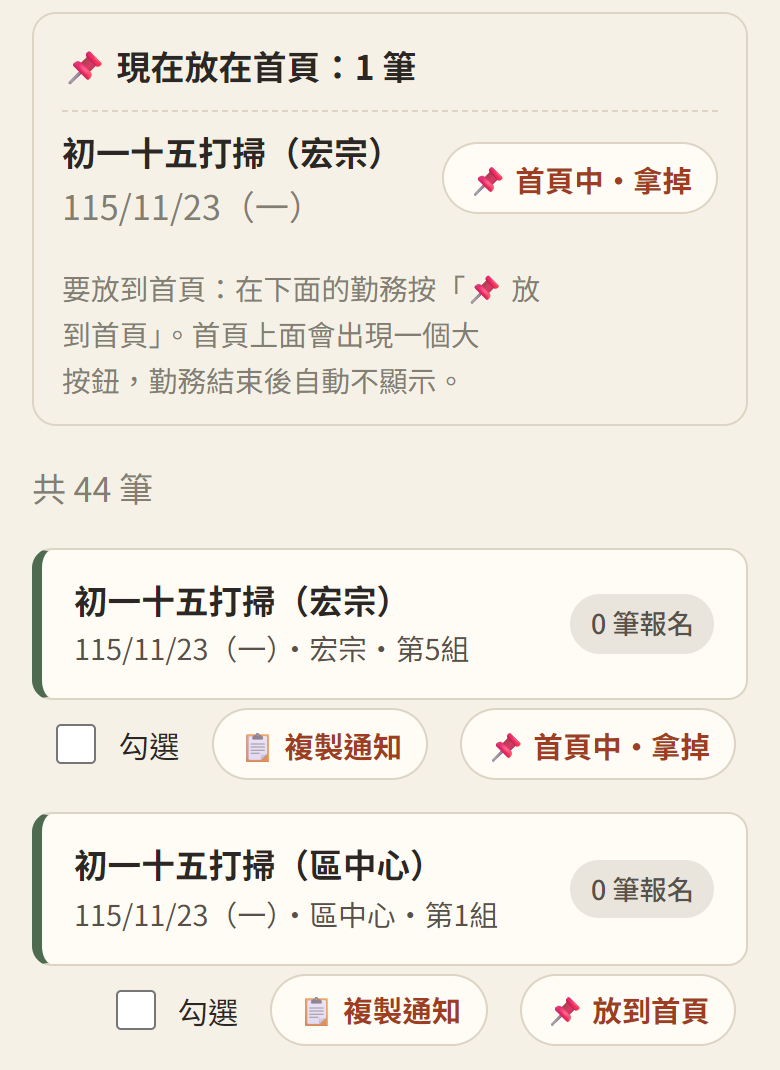
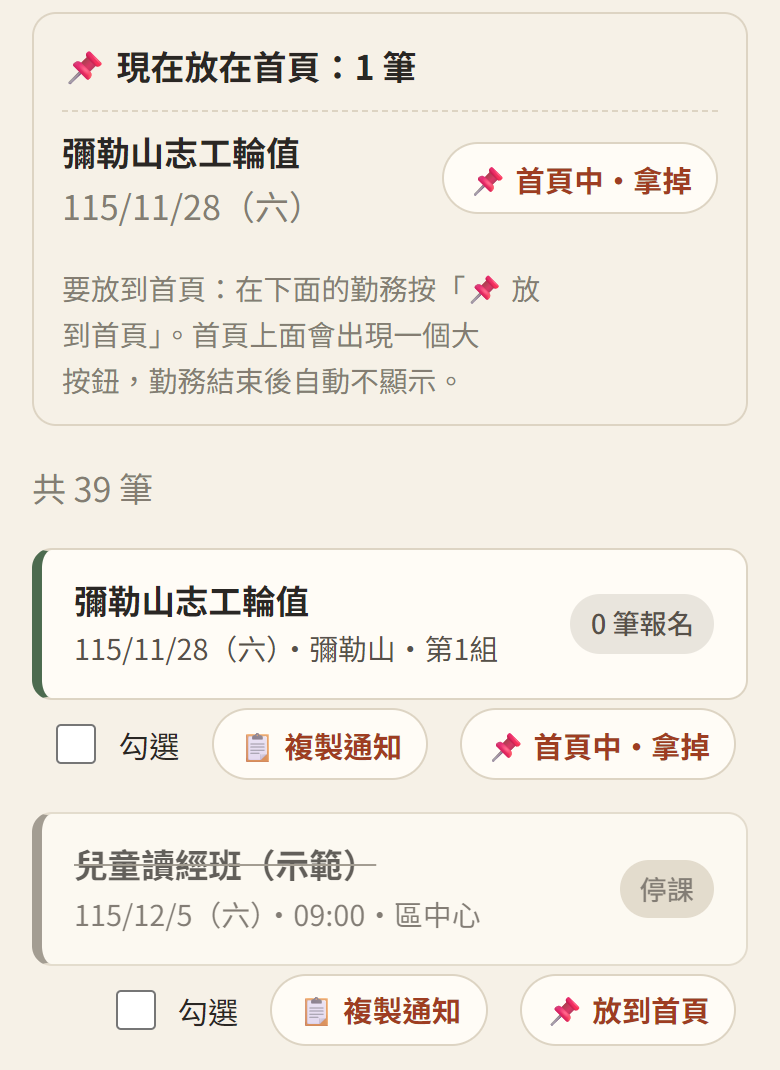
勤務管理多「依日期／依項目」：同一種的收成一組（幾筆、下一次、停課幾堂），組裡照日期排

diff --git a/index.html b/index.html
@@ -15,7 +15,7 @@
   if (location.hostname === 'bailixiao.github.io') location.replace('https://jiaoquan-cal.pages.dev/' + location.pathname.replace(/^\/duty-calendar\/?/, '').replace(/index\.html$/, '') + location.search + location.hash);
   </script>
   <meta name="viewport" content="width=device-width, initial-scale=1">
-  <meta name="app-version" content="20261127h"><!-- 整個網站的版本：部署時和 ?v= 一起換（js/update-check.js 用；正式網站的 ?v= 會換成各檔案的雜湊，見 tools/build-pages.js） -->
+  <meta name="app-version" content="20261127i"><!-- 整個網站的版本：部署時和 ?v= 一起換（js/update-check.js 用；正式網站的 ?v= 會換成各檔案的雜湊，見 tools/build-pages.js） -->
   <meta name="theme-color" content="#f6f1e7">
   <title>教全區行事曆</title>
   <!-- 加到手機主畫面時的圖示與名稱 -->
@@ -32,7 +32,7 @@
   <link rel="preconnect" href="https://fonts.googleapis.com">
   <link rel="preconnect" href="https://fonts.gstatic.com" crossorigin>
   <link href="https://fonts.googleapis.com/css2?family=Noto+Sans+TC:wght@400;500;700&family=Noto+Serif+TC:wght@600;700&display=swap" rel="stylesheet">
-  <link rel="stylesheet" href="css/app.css?v=20261127h">
+  <link rel="stylesheet" href="css/app.css?v=20261127i">
   <script>try { var t = localStorage.getItem('duty-calendar:text-size'); if (t === 'l' || t === 'xl') document.documentElement.classList.add('text-' + t); } catch (e) {}</script>
 </head>
 <body class="splash-on">
@@ -127,79 +127,79 @@
   <script src="https://cdn.jsdelivr.net/npm/fullcalendar@6.1.21/index.global.min.js"></script>
   <script src="https://cdn.jsdelivr.net/npm/@fullcalendar/core@6.1.21/locales/zh-tw.global.min.js"></script>
   <!-- 改了 js、css 後把 ?v= 的日期換新，手機才不會用到舊的檔案（GitHub Pages 會快取 10 分鐘） -->
-  <script src="js/site.js?v=20261127h"></script>
-  <script src="js/region.js?v=20261127h"></script>
-  <script src="js/config.js?v=20261127h"></script>
-  <script src="js/api.js?v=20261127h"></script>
-  <script src="js/format.js?v=20261127h"></script>
-  <script src="js/member-suggest.js?v=20261127h"></script>
-  <script src="js/newcomer.js?v=20261127h"></script>
-  <script src="js/album.js?v=20261127h"></script>
-  <script src="js/member-file.js?v=20261127h"></script>
-  <script src="js/family.js?v=20261127h"></script>
-  <script src="js/lunar-util.js?v=20261127h"></script>
-  <script src="js/date-list.js?v=20261127h"></script>
-  <script src="js/share.js?v=20261127h"></script>
-  <script src="js/addcal.js?v=20261127h"></script>
-  <script src="js/duty-cache.js?v=20261127h"></script>
-  <script src="js/thanks-board.js?v=20261127h"></script>
-  <script src="js/calendar.js?v=20261127h"></script>
-  <script src="js/confirm.js?v=20261127h"></script>
-  <script src="js/reschedule.js?v=20261127h"></script>
-  <script src="js/signup.js?v=20261127h"></script>
-  <script src="js/duty-images.js?v=20261127h"></script>
-  <script src="js/roster-grid.js?v=20261127h"></script>
-  <script src="js/grid-page.js?v=20261127h"></script>
-  <script src="js/grid-image.js?v=20261127h"></script>
-  <script src="js/thanks-image.js?v=20261127h"></script>
-  <script src="js/celebrate.js?v=20261127h"></script>
-  <script src="js/duty.js?v=20261127h"></script>
-  <script src="js/mine.js?v=20261127h"></script>
-  <script src="js/venue-hours.js?v=20261127h"></script>
-  <script src="js/venue.js?v=20261127h"></script>
-  <script src="js/push.js?v=20261127h"></script>
-  <script type="text/x-admin" src="js/attend-check.js?v=20261127h"></script>
-  <script type="text/x-admin" src="js/member-dups.js?v=20261127h"></script>
-  <script type="text/x-admin" src="js/admin.js?v=20261127h"></script>
-  <script type="text/x-admin" src="js/admin-pages.js?v=20261127h"></script>
-  <script type="text/x-admin" src="js/draft-editor.js?v=20261127h"></script>
-  <script type="text/x-admin" src="js/group-fair.js?v=20261127h"></script>
-  <script type="text/x-admin" src="js/admin-duties.js?v=20261127h"></script>
-  <script type="text/x-admin" src="js/admin-accounts.js?v=20261127h"></script>
-  <script type="text/x-admin" src="js/admin-site.js?v=20261127h"></script>
-  <script src="js/region-setup.js?v=20261127h"></script>
-  <script type="text/x-admin" src="js/import-parse.js?v=20261127h"></script>
-  <script type="text/x-admin" src="js/admin-import.js?v=20261127h"></script>
-  <script type="text/x-admin" src="js/old-parse.js?v=20261127h"></script>
-  <script type="text/x-admin" src="js/region-lines.js?v=20261127h"></script>
-  <script type="text/x-admin" src="js/old-import.js?v=20261127h"></script>
-  <script type="text/x-admin" src="js/admin-people.js?v=20261127h"></script>
-  <script type="text/x-admin" src="js/admin-hq.js?v=20261127h"></script>
-  <script type="text/x-admin" src="js/stats-calc.js?v=20261127h"></script>
-  <script type="text/x-admin" src="js/edu-stats.js?v=20261127h"></script>
-  <script type="text/x-admin" src="js/edu-care.js?v=20261127h"></script>
-  <script type="text/x-admin" src="js/admin-goals.js?v=20261127h"></script>
-  <script type="text/x-admin" src="js/admin-venue.js?v=20261127h"></script>
-  <script type="text/x-admin" src="js/admin-push.js?v=20261127h"></script>
-  <script src="js/tutorial.js?v=20261127h"></script>
-  <script src="js/feedback.js?v=20261127h"></script>
-  <script src="js/help.js?v=20261127h"></script>
-  <script src="js/rollcall.js?v=20261127h"></script>
-  <script type="text/x-admin" src="js/stats-export.js?v=20261127h"></script>
-  <script src="js/repair.js?v=20261127h"></script>
-  <script src="js/activity-report.js?v=20261127h"></script>
-  <script type="text/x-admin" src="js/member-stats.js?v=20261127h"></script>
-  <script type="text/x-admin" src="js/year-report.js?v=20261127h"></script>
-  <script type="text/x-admin" src="js/admin-stats.js?v=20261127h"></script>
-  <script type="text/x-admin" src="js/admin-report.js?v=20261127h"></script>
-  <script type="text/x-admin" src="js/admin-recent-signups.js?v=20261127h"></script>
-  <script type="text/x-admin" src="js/admin-notice.js?v=20261127h"></script>
-  <script type="text/x-admin" src="js/admin-notify.js?v=20261127h"></script>
-  <script type="text/x-admin" src="js/history-parse.js?v=20261127h"></script>
-  <script type="text/x-admin" src="js/admin-history.js?v=20261127h"></script>
-  <script type="text/x-admin" src="js/site-report.js?v=20261127h"></script>
-  <script src="js/easy-mode.js?v=20261127h"></script>
-  <script src="js/app.js?v=20261127h"></script>
-  <script src="js/update-check.js?v=20261127h"></script>
+  <script src="js/site.js?v=20261127i"></script>
+  <script src="js/region.js?v=20261127i"></script>
+  <script src="js/config.js?v=20261127i"></script>
+  <script src="js/api.js?v=20261127i"></script>
+  <script src="js/format.js?v=20261127i"></script>
+  <script src="js/member-suggest.js?v=20261127i"></script>
+  <script src="js/newcomer.js?v=20261127i"></script>
+  <script src="js/album.js?v=20261127i"></script>
+  <script src="js/member-file.js?v=20261127i"></script>
+  <script src="js/family.js?v=20261127i"></script>
+  <script src="js/lunar-util.js?v=20261127i"></script>
+  <script src="js/date-list.js?v=20261127i"></script>
+  <script src="js/share.js?v=20261127i"></script>
+  <script src="js/addcal.js?v=20261127i"></script>
+  <script src="js/duty-cache.js?v=20261127i"></script>
+  <script src="js/thanks-board.js?v=20261127i"></script>
+  <script src="js/calendar.js?v=20261127i"></script>
+  <script src="js/confirm.js?v=20261127i"></script>
+  <script src="js/reschedule.js?v=20261127i"></script>
+  <script src="js/signup.js?v=20261127i"></script>
+  <script src="js/duty-images.js?v=20261127i"></script>
+  <script src="js/roster-grid.js?v=20261127i"></script>
+  <script src="js/grid-page.js?v=20261127i"></script>
+  <script src="js/grid-image.js?v=20261127i"></script>
+  <script src="js/thanks-image.js?v=20261127i"></script>
+  <script src="js/celebrate.js?v=20261127i"></script>
+  <script src="js/duty.js?v=20261127i"></script>
+  <script src="js/mine.js?v=20261127i"></script>
+  <script src="js/venue-hours.js?v=20261127i"></script>
+  <script src="js/venue.js?v=20261127i"></script>
+  <script src="js/push.js?v=20261127i"></script>
+  <script type="text/x-admin" src="js/attend-check.js?v=20261127i"></script>
+  <script type="text/x-admin" src="js/member-dups.js?v=20261127i"></script>
+  <script type="text/x-admin" src="js/admin.js?v=20261127i"></script>
+  <script type="text/x-admin" src="js/admin-pages.js?v=20261127i"></script>
+  <script type="text/x-admin" src="js/draft-editor.js?v=20261127i"></script>
+  <script type="text/x-admin" src="js/group-fair.js?v=20261127i"></script>
+  <script type="text/x-admin" src="js/admin-duties.js?v=20261127i"></script>
+  <script type="text/x-admin" src="js/admin-accounts.js?v=20261127i"></script>
+  <script type="text/x-admin" src="js/admin-site.js?v=20261127i"></script>
+  <script src="js/region-setup.js?v=20261127i"></script>
+  <script type="text/x-admin" src="js/import-parse.js?v=20261127i"></script>
+  <script type="text/x-admin" src="js/admin-import.js?v=20261127i"></script>
+  <script type="text/x-admin" src="js/old-parse.js?v=20261127i"></script>
+  <script type="text/x-admin" src="js/region-lines.js?v=20261127i"></script>
+  <script type="text/x-admin" src="js/old-import.js?v=20261127i"></script>
+  <script type="text/x-admin" src="js/admin-people.js?v=20261127i"></script>
+  <script type="text/x-admin" src="js/admin-hq.js?v=20261127i"></script>
+  <script type="text/x-admin" src="js/stats-calc.js?v=20261127i"></script>
+  <script type="text/x-admin" src="js/edu-stats.js?v=20261127i"></script>
+  <script type="text/x-admin" src="js/edu-care.js?v=20261127i"></script>
+  <script type="text/x-admin" src="js/admin-goals.js?v=20261127i"></script>
+  <script type="text/x-admin" src="js/admin-venue.js?v=20261127i"></script>
+  <script type="text/x-admin" src="js/admin-push.js?v=20261127i"></script>
+  <script src="js/tutorial.js?v=20261127i"></script>
+  <script src="js/feedback.js?v=20261127i"></script>
+  <script src="js/help.js?v=20261127i"></script>
+  <script src="js/rollcall.js?v=20261127i"></script>
+  <script type="text/x-admin" src="js/stats-export.js?v=20261127i"></script>
+  <script src="js/repair.js?v=20261127i"></script>
+  <script src="js/activity-report.js?v=20261127i"></script>
+  <script type="text/x-admin" src="js/member-stats.js?v=20261127i"></script>
+  <script type="text/x-admin" src="js/year-report.js?v=20261127i"></script>
+  <script type="text/x-admin" src="js/admin-stats.js?v=20261127i"></script>
+  <script type="text/x-admin" src="js/admin-report.js?v=20261127i"></script>
+  <script type="text/x-admin" src="js/admin-recent-signups.js?v=20261127i"></script>
+  <script type="text/x-admin" src="js/admin-notice.js?v=20261127i"></script>
+  <script type="text/x-admin" src="js/admin-notify.js?v=20261127i"></script>
+  <script type="text/x-admin" src="js/history-parse.js?v=20261127i"></script>
+  <script type="text/x-admin" src="js/admin-history.js?v=20261127i"></script>
+  <script type="text/x-admin" src="js/site-report.js?v=20261127i"></script>
+  <script src="js/easy-mode.js?v=20261127i"></script>
+  <script src="js/app.js?v=20261127i"></script>
+  <script src="js/update-check.js?v=20261127i"></script>
 </body>
 </html>

diff --git a/js/admin-duties.js b/js/admin-duties.js
@@ -351,7 +351,10 @@
 
   // ---------- 列表 ----------
 
-  const listState = { filter: 'future', q: '', picked: new Set(), scrollY: 0, restoreUntil: 0 };
+  // view：date（依日期）| series（依項目，同一種收成一組；記在這台裝置，2026/11/27）；open＝依項目時打開的組
+  const VIEW_KEY = 'duty-calendar:admin-list-view';
+  const savedView = () => { try { return localStorage.getItem(VIEW_KEY) === 'series' ? 'series' : 'date'; } catch (e) { return 'date'; } };
+  const listState = { filter: 'future', q: '', picked: new Set(), scrollY: 0, restoreUntil: 0, view: savedView(), open: new Set() };
 
   function list(body, guard) {
     AdminPage.swr('dutyList', () => Api.admin('adminDutyList', {}, true), (data, stale) => renderList(body, data, stale), body);
@@ -372,6 +375,9 @@
           ${monthOptions.map(([v, label]) => `<option value="${v}"${v === listState.filter ? ' selected' : ''}>${esc(label)}</option>`).join('')}
         </select>
         <input class="input" type="search" data-q placeholder="搜尋${T()}名稱" value="${esc(listState.q)}">
+      </div>
+      <div class="segmented list-view" role="radiogroup" aria-label="怎麼排">
+        ${[['date', '📅 依日期'], ['series', '📚 依項目']].map(([v, label]) => `<label class="segment${listState.view === v ? ' is-checked' : ''}"><input type="radio" name="lview" value="${v}"${listState.view === v ? ' checked' : ''}>${label}</label>`).join('')}
       </div>
       ${Share.noNeedHtml()}
       <div data-pins></div>
@@ -430,15 +436,34 @@
         return !q || d.name.indexOf(q) !== -1;
       });
       if (listState.filter === 'past') items.reverse(); // 已過去：最近的排最前面
-      rows.innerHTML = items.length ? `
-        <p class="muted">共 ${items.length} 筆${listState.filter === 'past' ? '・點進去就是報名名單，選日期後按「＋ 補登」加人' : ''}</p>
+      const total = `<p class="muted">共 ${items.length} 筆${listState.filter === 'past' ? '・點進去就是報名名單，選日期後按「＋ 補登」加人' : ''}</p>`;
+      if (!items.length) rows.innerHTML = `<p class="panel-empty">沒有符合的${T()}</p>`;
+      else if (listState.view === 'series') {
+        // 依項目：同一種收成一組（名稱、幾筆、下一次、停課幾堂），點開才列每一筆；只有一筆的直接列
+        const groups = Fmt.groupSeries(items, data.today);
+        rows.innerHTML = `<p class="muted">共 ${items.length} 筆・${groups.length} 種</p><div class="card-list">${groups.map((g) => g.items.length === 1 ? itemHtml(g.items[0]) : `
+          <details class="series-group" data-series="${esc(g.name)}"${listState.open.has(g.name) || q ? ' open' : ''}>
+            <summary><span class="series-name">${esc(g.name)}</span><span class="series-meta">${g.items.length} 筆${g.upcoming ? `・下一次 ${esc(Fmt.shortDate(g.next))}` : `・最後 ${esc(Fmt.shortDate(g.next))}`}${g.cancelled ? `・${esc(Fmt.cancelLabel(g.items[0]))} ${g.cancelled}` : ''}</span></summary>
+            <div class="card-list">${g.items.map((d) => itemHtml(d, g.name)).join('')}</div>
+          </details>`).join('')}</div>`;
+        rows.querySelectorAll('[data-series]').forEach((x) => x.addEventListener('toggle', () => { if (x.open) listState.open.add(x.dataset.series); else listState.open.delete(x.dataset.series); }));
+      } else rows.innerHTML = `${total}
         <div class="card-list">
-          ${items.map((d) => `
+          ${items.map((d) => itemHtml(d)).join('')}
+        </div>`;
+      bindInvite();
+    }
+
+    /** 列表的一筆（依日期、依項目共用）；inGroup＝依項目那一組的名稱：標題寫日期，名稱不一樣才寫在下面 */
+    function itemHtml(d, inGroup) {
+      const title = inGroup ? dateRange(d) : d.name;
+      const meta = inGroup ? [d.name !== inGroup ? d.name : '', d.startTime, d.location, d.group] : [dateRange(d), d.startTime, d.location, d.group];
+      return `
             <div class="recent-item">
-            <a class="duty-card${d.mode === '公告型' ? ' kind-notice' : ''}" href="${d.end < data.today && d.mode !== '公告型' ? `#/admin/duty/${encodeURIComponent(d.id)}?date=${d.end}` : `#/admin/duties/edit/${encodeURIComponent(d.id)}`}">
+            <a class="duty-card${d.cancelled ? ' kind-cancelled' : d.mode === '公告型' ? ' kind-notice' : ''}" href="${d.end < data.today && d.mode !== '公告型' ? `#/admin/duty/${encodeURIComponent(d.id)}?date=${d.end}` : `#/admin/duties/edit/${encodeURIComponent(d.id)}`}">
               <span class="card-main">
-                <span class="card-title">${esc(d.name)}</span>
-                <span class="card-meta">${esc([dateRange(d), d.startTime, d.location, d.group].filter(Boolean).join('・'))}</span>
+                <span class="card-title">${esc(title)}</span>
+                <span class="card-meta">${esc(meta.filter(Boolean).join('・'))}</span>
               </span>
               <span class="badge ${d.cancelled ? 'badge-cancelled' : d.mode === '公告型' ? 'badge-notice' : d.signups ? 'badge-ok' : 'badge-full'}">${d.cancelled ? esc(Fmt.cancelLabel(d)) : d.mode === '公告型' ? '公告' : `${d.signups} 筆報名`}</span>
             </a>
@@ -447,9 +472,7 @@
               <button type="button" class="link-btn" data-invite="${esc(d.id)}">📋 複製通知</button>` : ''}
               ${pinBtn(d)}
             </div>` : ''}
-            </div>`).join('')}
-        </div>` : `<p class="panel-empty">沒有符合的${T()}</p>`;
-      bindInvite();
+            </div>`;
     }
 
     // 複製通知（同近期勤務）：按的時候才讀那一天的名額與人數
@@ -504,6 +527,12 @@
     drawPins();
     draw();
     body.querySelector('[data-filter]').addEventListener('change', (ev) => { listState.filter = ev.target.value; draw(); });
+    body.querySelectorAll('[name=lview]').forEach((r) => r.addEventListener('change', () => {
+      listState.view = r.value;
+      try { localStorage.setItem(VIEW_KEY, r.value); } catch (e) { /* 存不了就算了 */ }
+      body.querySelectorAll('.list-view .segment').forEach((x) => x.classList.toggle('is-checked', x.querySelector('input').checked));
+      draw();
+    }));
     // 點進某一筆時記住捲到哪裡；從名單頁回來時捲回原位（2026/11/21）
     rows.addEventListener('click', (ev) => {
       if (ev.target.closest('a[href^="#/admin/duty"]')) { listState.scrollY = window.scrollY; listState.restoreUntil = Date.now() + 120000; }

diff --git a/tools/help-shots.js b/tools/help-shots.js
@@ -291,6 +291,8 @@ const SHOTS = [
   // 停課（2026/11/27）：行事曆上停課的課程淡掉、劃線，徽章寫「停課」
   { name: 'cancelled-card', hash: '#/', js: `if (!window.__ccSeed) { window.__ccSeed = 1; const tk = (await __p({ action: 'adminLogin', password: 'test-pass' })).data.token; const mk = (start, extra) => Object.assign({ name: '兒童讀經班（示範）', category: '教育', nature: '課程', mode: '報名型', start, end: start, startTime: '09:00', endTime: '10:00', location: '區中心', positions: [{ name: '參加', min: 0, max: null }] }, extra); await __p({ action: 'adminCreateDuties', token: tk, duties: [mk('2026-12-05', { cancelled: true, cancelReason: '老師請假' }), mk('2026-12-12')] }); } location.hash = '#/x'; await __wait(200); location.hash = '#/'; await __wait(1500); document.querySelector('[data-view=recent]').click(); document.querySelector('[data-cat="全部"]')?.click(); for (let i = 0; i < 30 && !document.querySelector('.duty-card.kind-cancelled'); i++) await __wait(300); await __wait(400);`, clip: `const c = document.querySelector('.duty-card.kind-cancelled'); const day = c.closest('section, li, .recent-day, .week-day') || c.parentElement; return __box(day, 6);` },
   { name: 'adm-cancelled', admin: true, hash: '#/admin/duties', js: `await __wait(1500); const list = (await Api.admin('adminDutyList', {})).duties; const d = list.find((x) => x.cancelled); if (!d) throw new Error('INFO no cancelled duty（先跑 cancelled-card）'); location.hash = '#/admin/duties/edit/' + encodeURIComponent(d.id); for (let i = 0; i < 30 && !document.querySelector('[name=cancelled]'); i++) await __wait(300); await __wait(400);`, clip: `return __box(document.querySelector('[name=cancelled]').closest('fieldset'), 6);` },
+  // 勤務管理依項目（2026/11/27）：同一種收成一組，打開一組
+  { name: 'adm-list-series', admin: true, hash: '#/admin/duties', js: `for (let i = 0; i < 30 && !document.querySelector('[name=lview]'); i++) await __wait(300); document.querySelector('[name=lview][value=series]').click(); for (let i = 0; i < 30 && !document.querySelector('.series-group'); i++) await __wait(300); const gs = [...document.querySelectorAll('.series-group')].sort((a, b) => a.querySelectorAll('.recent-item').length - b.querySelectorAll('.recent-item').length); const g = gs[0]; g.parentElement.prepend(g); g.open = true; await __wait(400);`, clip: `try { localStorage.removeItem('duty-calendar:admin-list-view'); } catch (e) {} const a = document.querySelector('.list-view'); const groups = [...document.querySelectorAll('.series-group')]; const last = groups[Math.min(5, groups.length - 1)]; a.scrollIntoView(); const r = a.getBoundingClientRect(); return { x: 0, y: r.top + scrollY - 8, width: innerWidth, height: Math.min(last.getBoundingClientRect().bottom - r.top + 16, 1800) };` },
   { name: 'adm-lunar-edit', admin: true, hash: '#/admin/duties/new', js: `await __wait(2500); const f = document.querySelector('[data-body] form'); const setv = (n, v) => { const i = document.querySelector('[data-body] form').elements[n]; if (!i) throw new Error('INFO no field ' + n); i.value = v; i.dispatchEvent(new Event('input', { bubbles: true })); i.dispatchEvent(new Event('change', { bubbles: true })); }; document.querySelector('input[name=dateType][value=lunar]').click(); await __wait(500); setv('name', '拜香輪值'); setv('groupType', '拜香輪值組'); await __wait(500); setv('lunarFrom', '2026-03-01'); setv('lunarTo', '2026-04-20'); await __wait(300); const g1 = document.querySelector('input[name=group][value="第一組"]'); if (g1) { g1.checked = true; g1.dispatchEvent(new Event('change', { bubbles: true })); } await __wait(300); document.querySelector('[data-body] form').requestSubmit(); for (let i = 0; i < 20 && !document.querySelector('.lunar-edit'); i++) await __wait(300); if (!document.querySelector('.lunar-edit')) throw new Error('INFO no preview'); const sel = document.querySelectorAll('[data-lgroup]'); [['第一組', ''], ['第二組', ''], ['第三組', ''], ['第一組', '']].forEach(([g], i) => { if (sel[i]) { sel[i].value = g; sel[i].dispatchEvent(new Event('change', { bubbles: true })); } }); const nm = document.querySelector('[data-lname="0"]'); nm.value = nm.value + '（大典）'; nm.dispatchEvent(new Event('change', { bubbles: true })); await __wait(300); document.querySelector('.lunar-preview').scrollIntoView({ block: 'center' }); await __wait(200);`, clip: `return __box(document.querySelector('.lunar-preview'), 8);` },
   { name: 'adm-group-multi', admin: true, hash: '#/admin/duties/new', js: `await __wait(2500); const f = document.querySelector('[data-body] form'); f.elements.name.value = '大掃除'; const t = f.elements.groupType; t.value = '勤務了愿組'; t.dispatchEvent(new Event('change', { bubbles: true })); await __wait(400);
       ['第1組', '第3組', '第5組'].forEach((n) => { const c = document.querySelector('input[name=group][value="' + n + '"]'); if (c) c.checked = true; });

diff --git a/js/format.js b/js/format.js
@@ -92,6 +92,38 @@
 
   /** 「最少」留空時預設 2 人；「最多」小於 2 時以最多為準（與後端 Rules.gs effectiveMin_ 相同） */
   const DEFAULT_MIN_PEOPLE = 2;
+  /**
+   * 勤務管理「依項目」看（2026/11/27）：同一種的名稱。去掉開頭的農曆日期（十一月初一拜香輪值 → 拜香輪值），
+   * 括號裡的地點保留（初一十五打掃（宏宗）和（區中心）是不同組）。
+   */
+  function seriesName(name) {
+    return String(name || '')
+      .replace(/^閏?[正一二三四五六七八九十冬臘腊]{1,2}月(初[一二三四五六七八九十]|十[一二三四五六七八九]?|二十[一二三四五六七八九]?|廿[一二三四五六七八九]?|三十)/, '')
+      .replace(/^[\s　]+|[\s　]+$/g, '') || String(name || '');
+  }
+
+  /**
+   * 照項目分組：items 照原本的順序（日期）；回傳 [{ name, items, next, cancelled }]，
+   * next＝今天（含）以後最近的一筆日期（沒有就是最後一筆）；組的順序照 next（還有之後的排前面）。
+   */
+  function groupSeries(items, today) {
+    const map = new Map();
+    items.forEach((d) => {
+      const k = seriesName(d.name);
+      if (!map.has(k)) map.set(k, { name: k, items: [], next: '', cancelled: 0 });
+      const g = map.get(k);
+      g.items.push(d);
+      if (d.cancelled) g.cancelled += 1;
+    });
+    const groups = [...map.values()];
+    groups.forEach((g) => {
+      const up = g.items.filter((d) => (d.end || d.start) >= today).map((d) => d.start).sort();
+      g.upcoming = up.length;
+      g.next = up.length ? up[0] : g.items.map((d) => d.start).sort().pop();
+    });
+    return groups.sort((a, b) => (b.upcoming > 0) - (a.upcoming > 0) || (a.upcoming ? (a.next < b.next ? -1 : a.next > b.next ? 1 : 0) : (a.next > b.next ? -1 : a.next < b.next ? 1 : 0)) || a.name.localeCompare(b.name, 'zh-Hant'));
+  }
+
   /** 停課的字：教育、道務的課程寫「停課」，其他（勤務、活動）寫「取消」 */
   function cancelLabel(duty) {
     return duty && (duty.category === '教育' || duty.nature === '課程') ? '停課' : '取消';
@@ -238,6 +270,6 @@
   window.Fmt = {
     parseTime,
     esc, toDateStr, parseDate, addDays, datesBetween, rocYear, weekday, shortDate, rocDate, catLabel,
-    timeRange, cardTime, effectiveMin, dayState, cancelLabel, groupText, groupNames, leaderWord, ticketSum, ticketGroups, sameName, byStroke, setContact, askAdmin, shortDateList
+    timeRange, cardTime, effectiveMin, dayState, cancelLabel, seriesName, groupSeries, groupText, groupNames, leaderWord, ticketSum, ticketGroups, sameName, byStroke, setContact, askAdmin, shortDateList
   };
 })();

diff --git a/css/app.css b/css/app.css
@@ -3231,3 +3231,15 @@ body.yr-open { overflow: hidden; }
 .sticky-actions { position: sticky; bottom: 0; padding: 10px 0; background: var(--paper); }
 /* 從照片／檔案新增：AI 看到的（2026/11/26） */
 .de-seen { display: flex; flex-direction: column; gap: 4px; background: var(--ok-soft); border-radius: 10px; padding: 8px 12px; font-size: .95rem; }
+
+/* 勤務管理：依日期／依項目（2026/11/27） */
+.list-view { margin-bottom: 10px; }
+.list-view .segment { min-height: 40px; font-size: 1rem; }
+.series-group { border: 1px solid var(--line); border-radius: var(--radius); background: var(--paper); }
+.series-group > summary { display: flex; flex-wrap: wrap; align-items: baseline; gap: 4px 10px; padding: 12px 14px; cursor: pointer; list-style: none; }
+.series-group > summary::-webkit-details-marker { display: none; }
+.series-group > summary::before { content: '▸'; color: var(--muted); }
+.series-group[open] > summary::before { content: '▾'; }
+.series-name { font-weight: 700; font-size: 1.05rem; }
+.series-meta { font-size: .9rem; color: var(--ink-2); }
+.series-group > .card-list { padding: 0 10px 10px; }

diff --git a/docs/spec.md b/docs/spec.md
@@ -685,3 +685,10 @@
 - 統計：statsExcluded_、eduSessions_ 不算停課的（教育的堂數、師資、出席都不算這一堂）。
 - 匯入出勤名單的 create 可以帶 cancelled、cancelReason（停課的場次一起建）。
 - 已經報名的人不會自動取消（由管理者通知）。
+
+## 2026/11/27 勤務管理：依日期／依項目
+
+- 勤務管理列表上面多「📅 依日期｜📚 依項目」切換（記在這台裝置 localStorage duty-calendar:admin-list-view，預設依日期）。
+- 依項目（Fmt.groupSeries）：名稱去掉開頭的農曆日期（Fmt.seriesName，同 seriesKey_ 的第一步；括號裡的地點保留，不同地點分開）當組名；每組一個可展開的區塊，寫幾筆、下一次（今天以後最近的；都過去寫「最後」）、停課／取消幾筆。組的順序：還有之後日期的在前、照下一次排；都過去的照最後一次新到舊。只有一筆的直接列。打開的組重畫時保持打開；有搜尋字時全部打開。
+- 組裡每一筆的標題寫日期，名稱和組名不一樣才寫在下面（例：十一月初一拜香輪值）。勾選、複製通知、放到首頁、點進去改都和依日期一樣；月份選單、搜尋先篩再分組。
+- 列表裡停課的那一筆也淡掉、劃線（kind-cancelled）。
